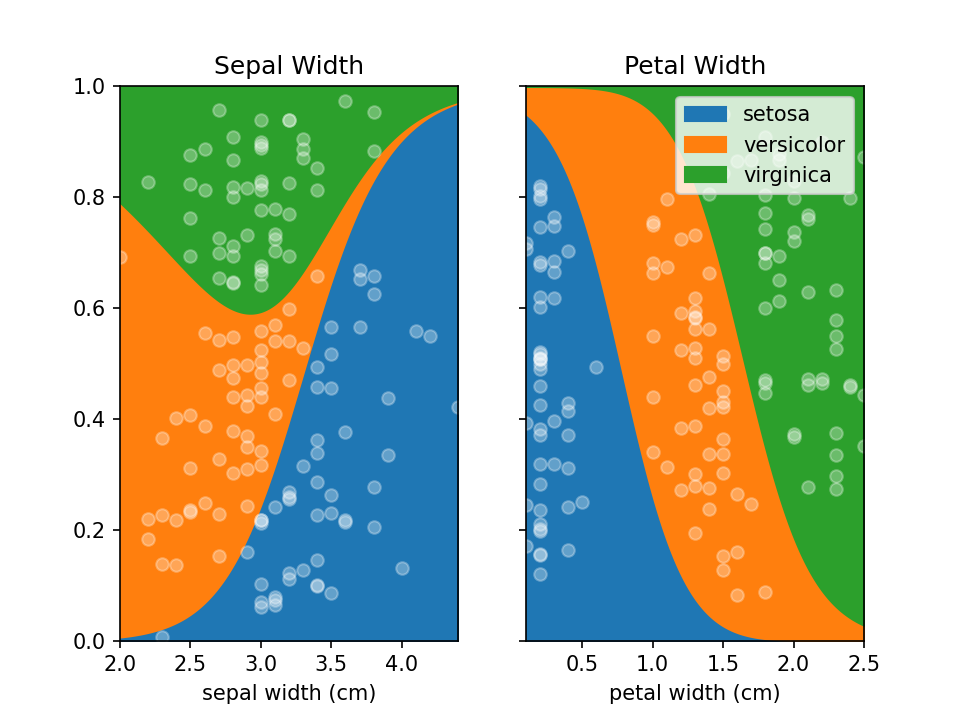
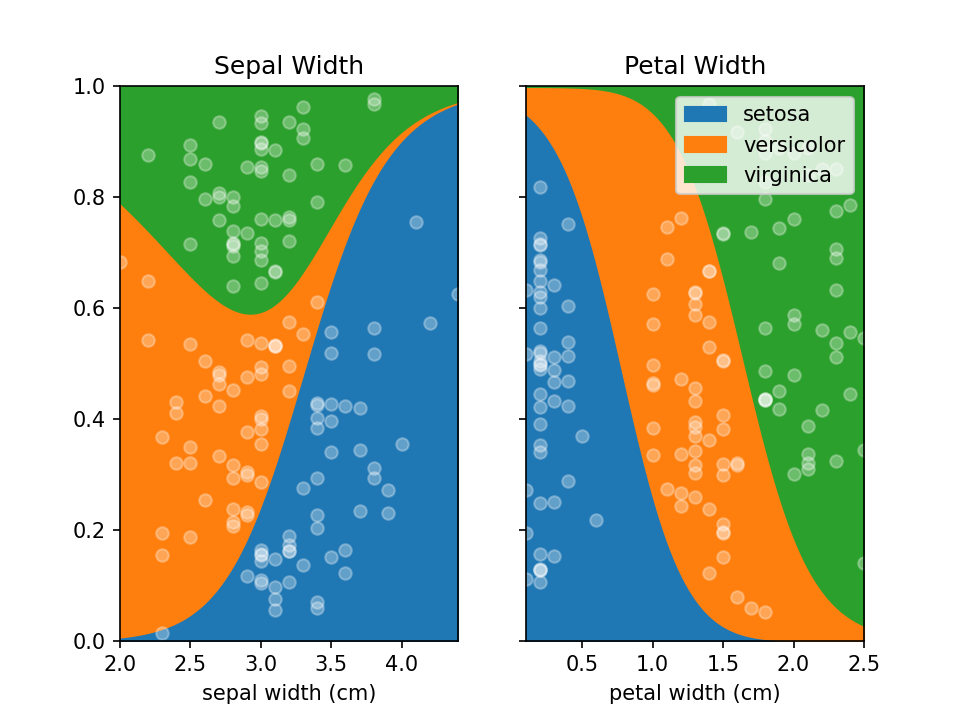
added x_range option (which allows setting the range of the x-axis. Though this also permits to project beyond the range where there is data. Needs to be used with caution)

diff --git a/lorepy/lorepy.py b/lorepy/lorepy.py
@@ -2,10 +2,11 @@ from sklearn.linear_model import LogisticRegression
 from pandas import DataFrame
 import numpy as np
 import matplotlib.pyplot as plt
+from typing import Optional, Tuple
 
 
-def _get_area_df(X, lg, x_feature) -> DataFrame:
-    values = np.linspace(X.min(), X.max(), num=200)
+def _get_area_df(X, lg, x_feature, x_range) -> DataFrame:
+    values = np.linspace(X.min(), X.max(), num=200) if x_range is None else np.linspace(x_range[0], x_range[1], num=200)
     proba = lg.predict_proba(values.reshape(-1, 1))
     proba_df = DataFrame(proba, columns=lg.classes_)
     proba_df[x_feature] = values
@@ -34,16 +35,19 @@ def loreplot(
     x: str,
     y: str,
     add_dots: bool = True,
+    x_range: Optional[Tuple[int, int]] = None,
     scatter_kws: dict = dict({}),
     ax=None,
     **kwargs
 ):
     """
 
+
     :param data:
     :param x:
     :param y:
     :param add_dots:
+    :type x_range: object
     :param scatter_kws:
     :param kwargs:
     :return:
@@ -60,7 +64,7 @@ def loreplot(
     if "linestyle" not in kwargs.keys():
         kwargs["linestyle"] = 'None'
 
-    area_df = _get_area_df(X_reg, lg, x)
+    area_df = _get_area_df(X_reg, lg, x, x_range=x_range)
     area_df.plot.area(ax=ax, **kwargs)
 
     if add_dots:
